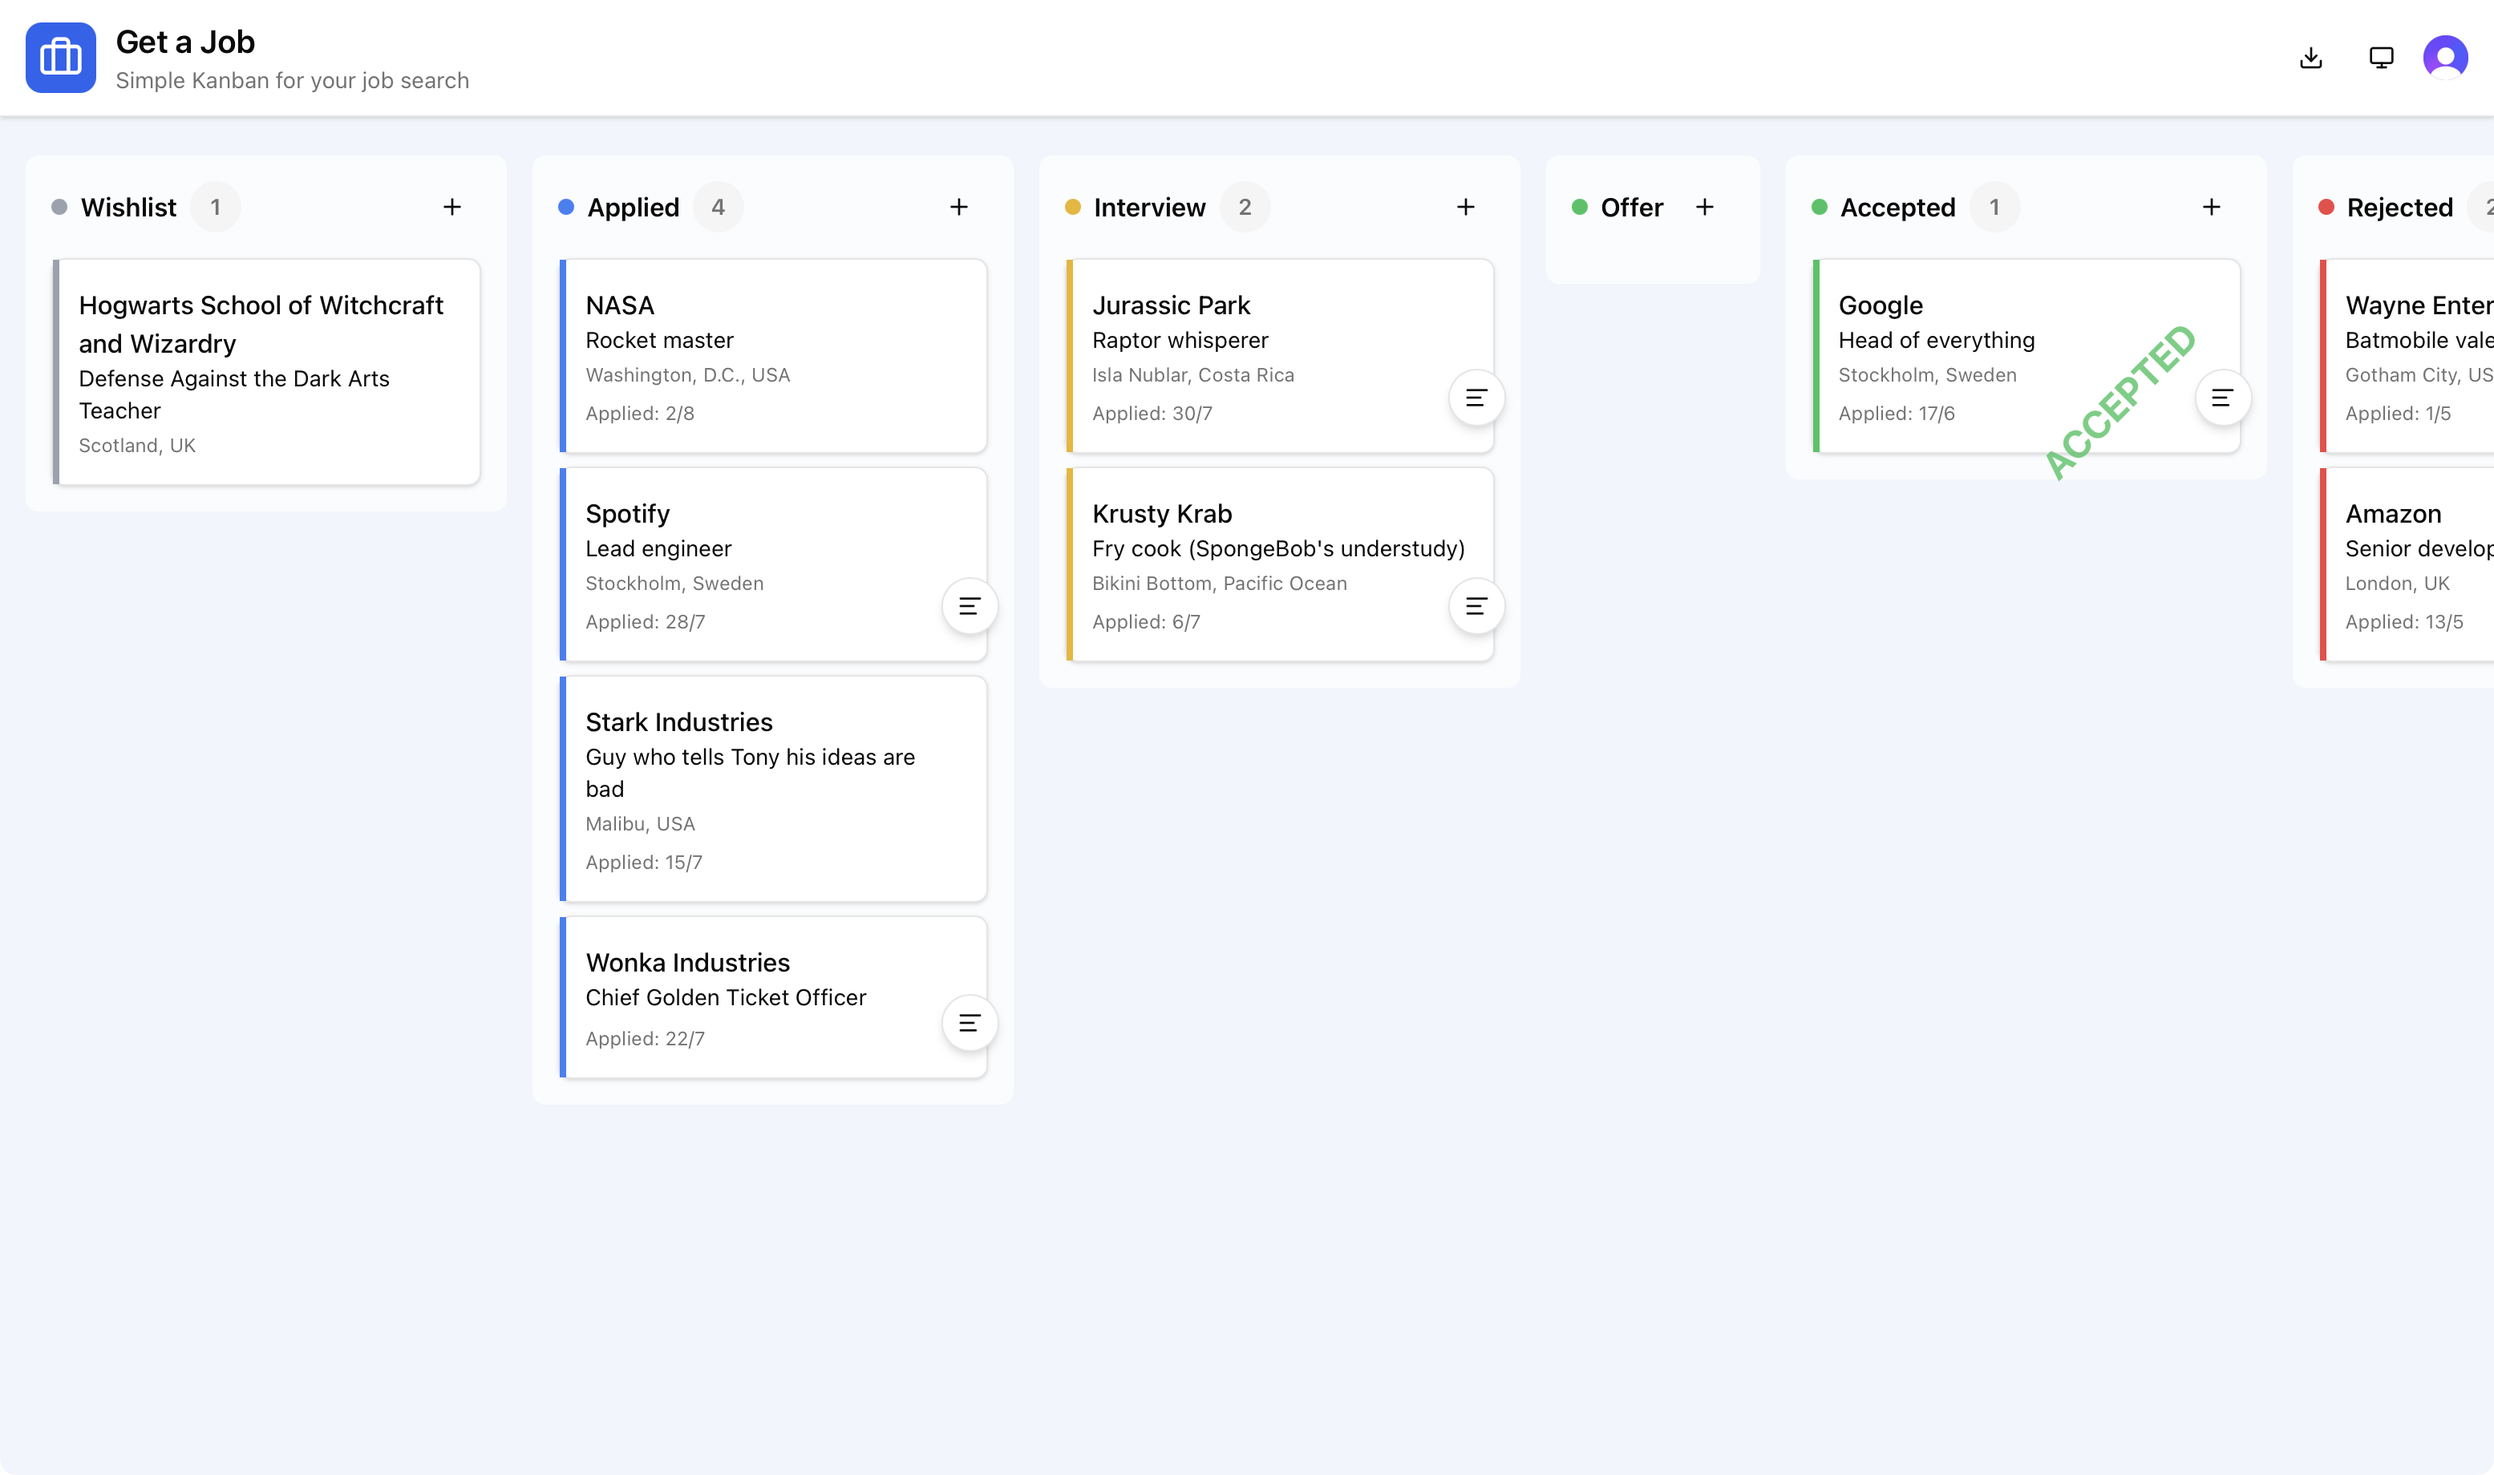
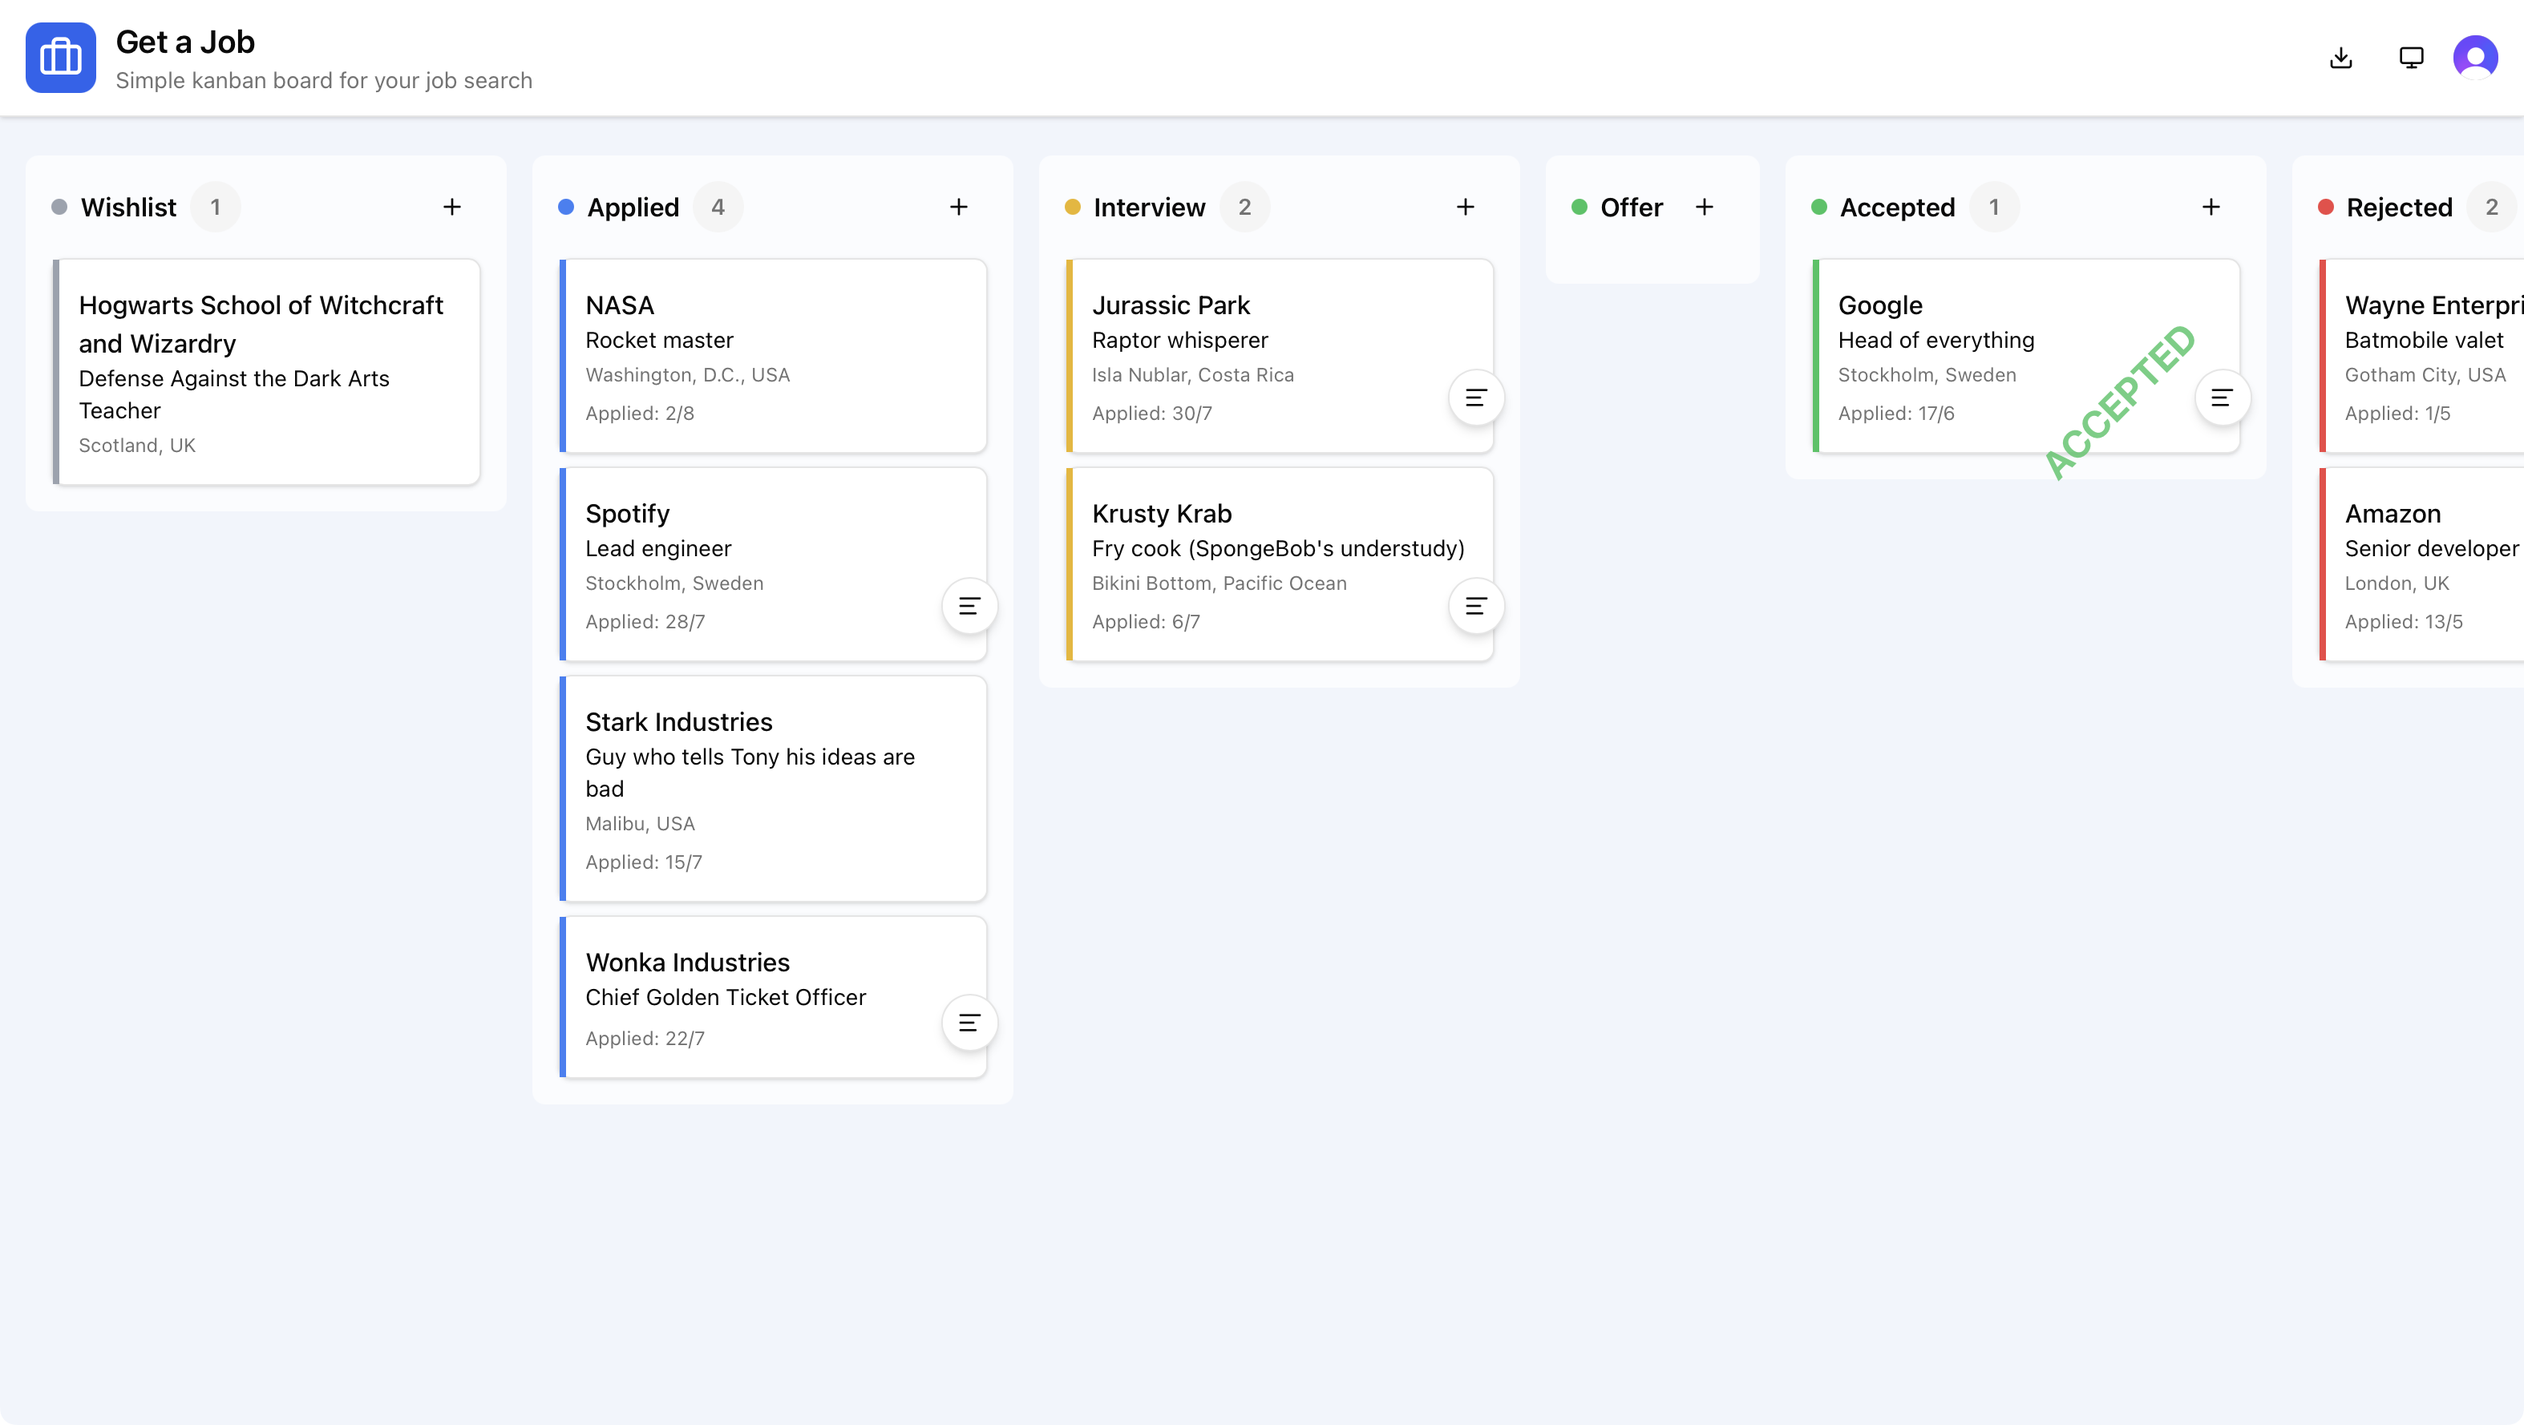
Update the Get a Job screenshot
Reshoot with the new tagline, cropped to drop the title bar.

diff --git a/index.html b/index.html
@@ -194,8 +194,8 @@
                     <img
                         class="shot"
                         src="img/projects/get-a-job.webp"
-                        width="3110"
-                        height="1840"
+                        width="3148"
+                        height="1778"
                         alt="Screenshot of Get a Job: a kanban board with Wishlist, Applied, Interview, Offer, Accepted and Rejected columns, each holding cards with the company, role, location and date applied"
                     />
                 </button>
